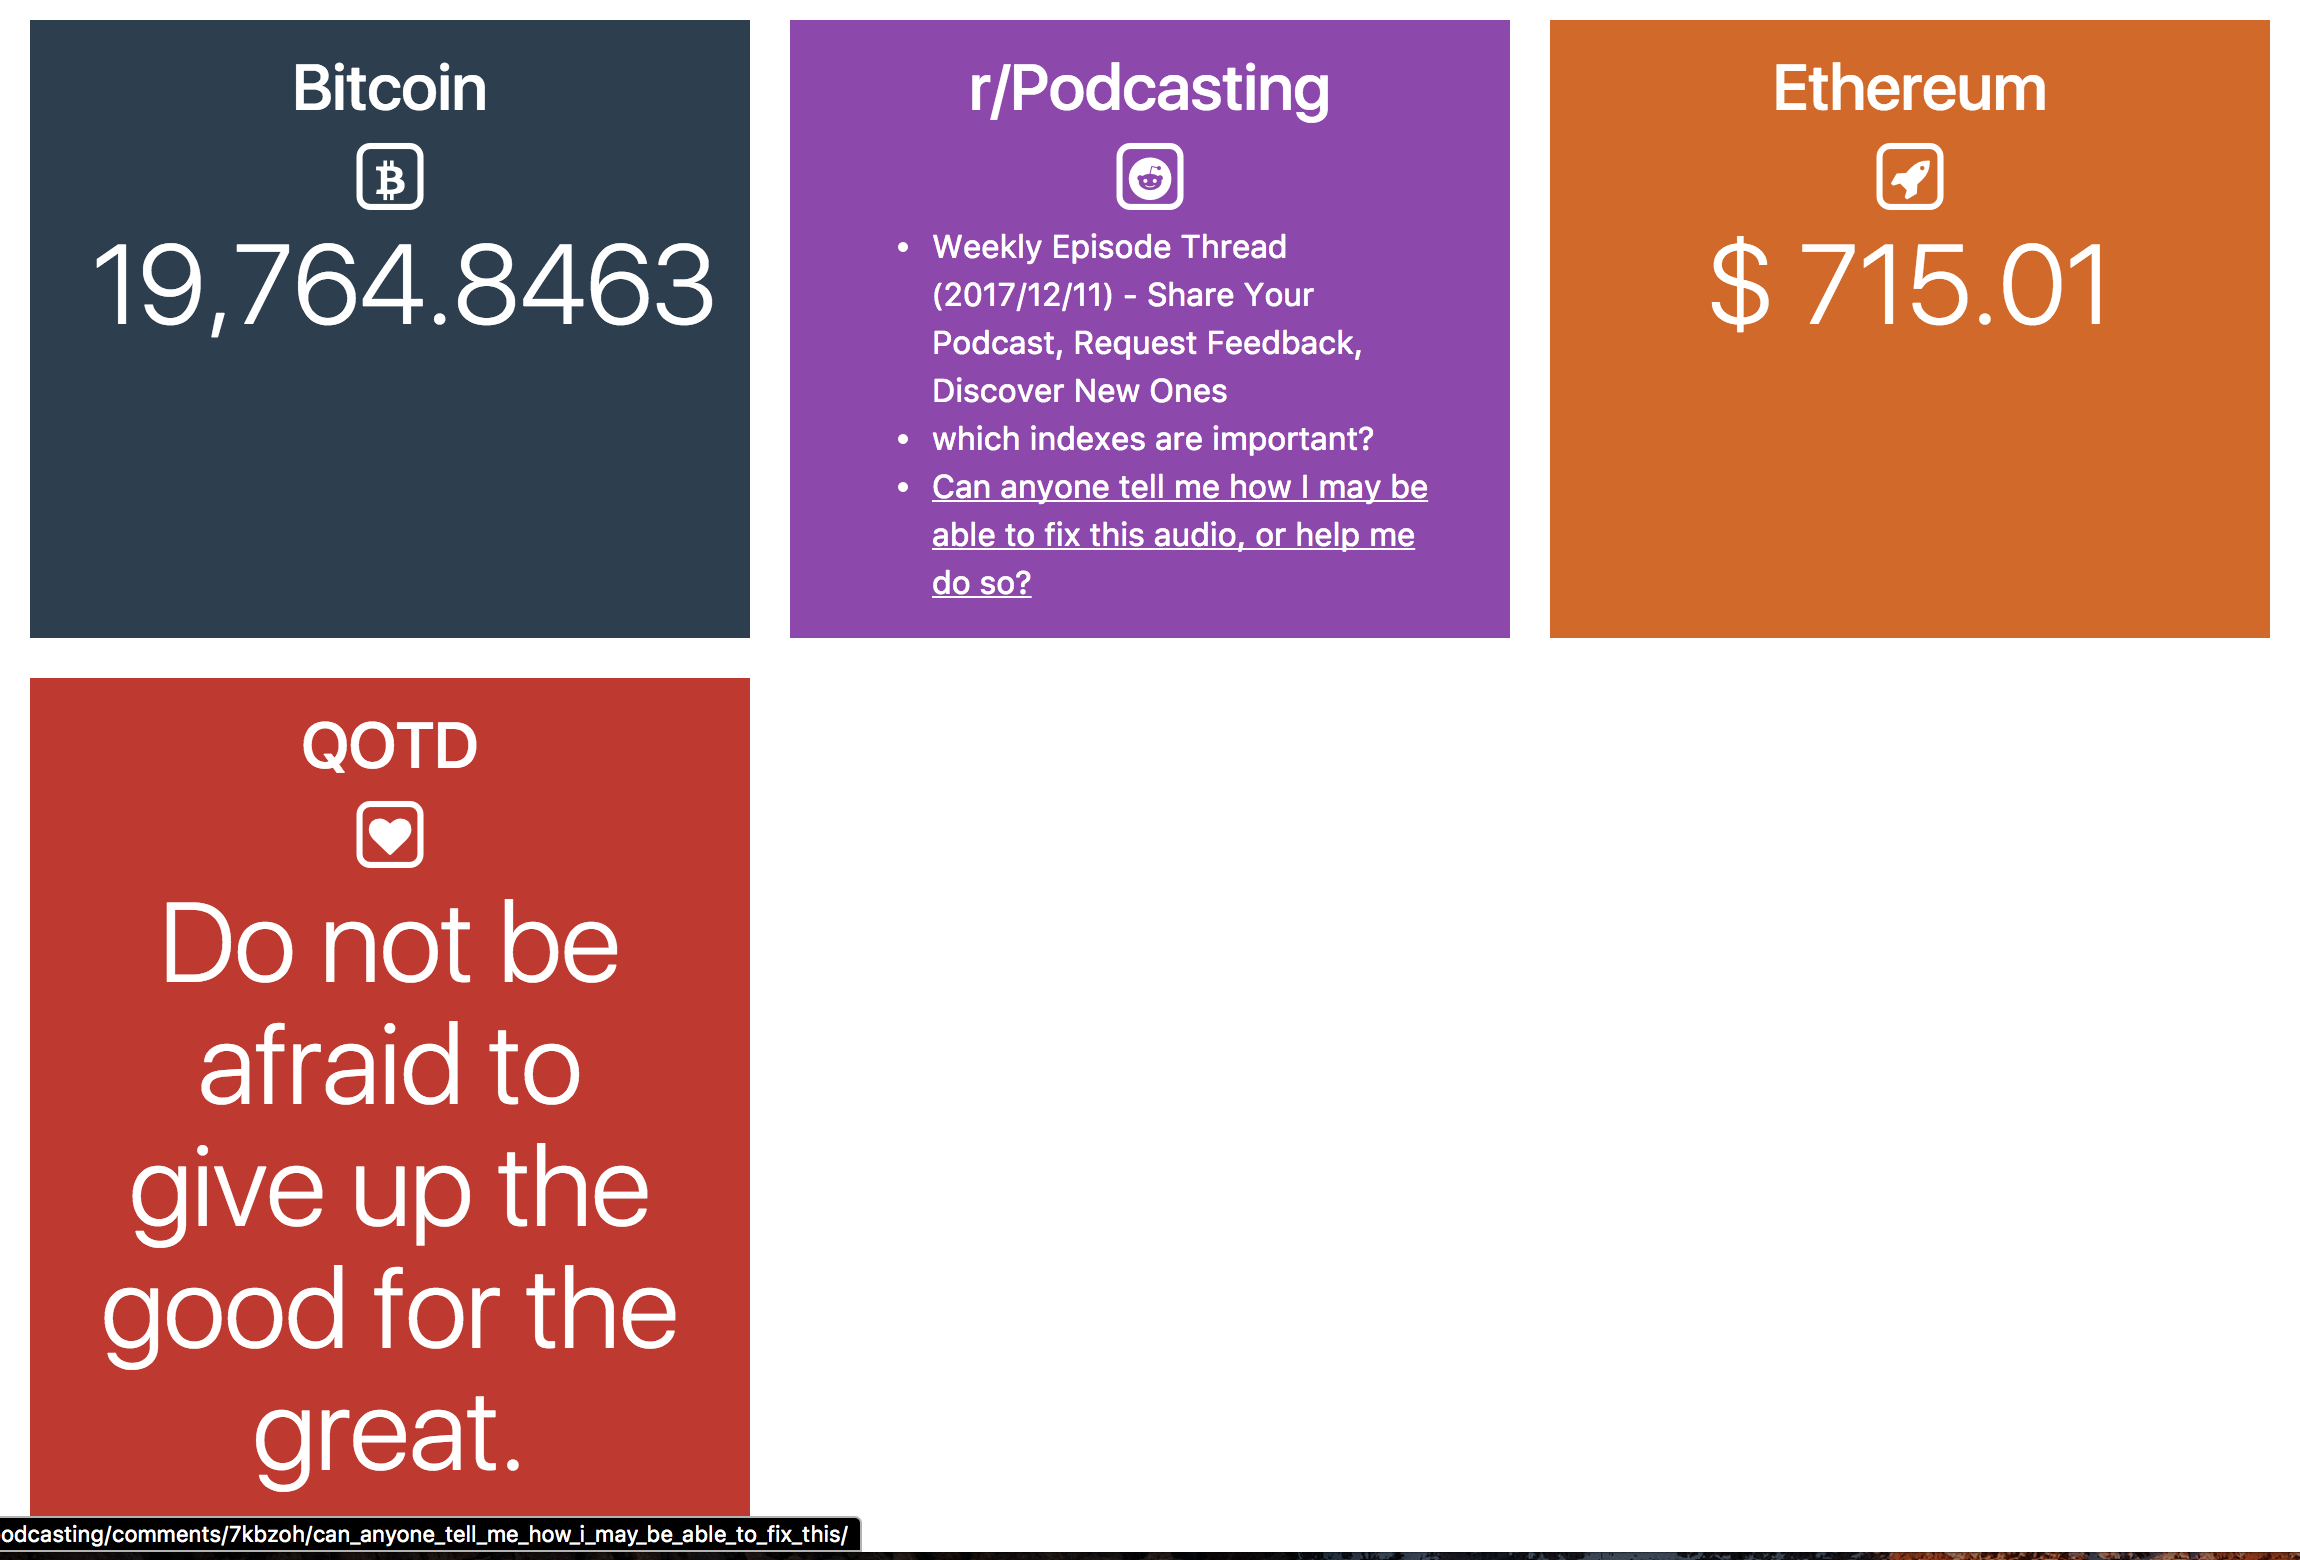
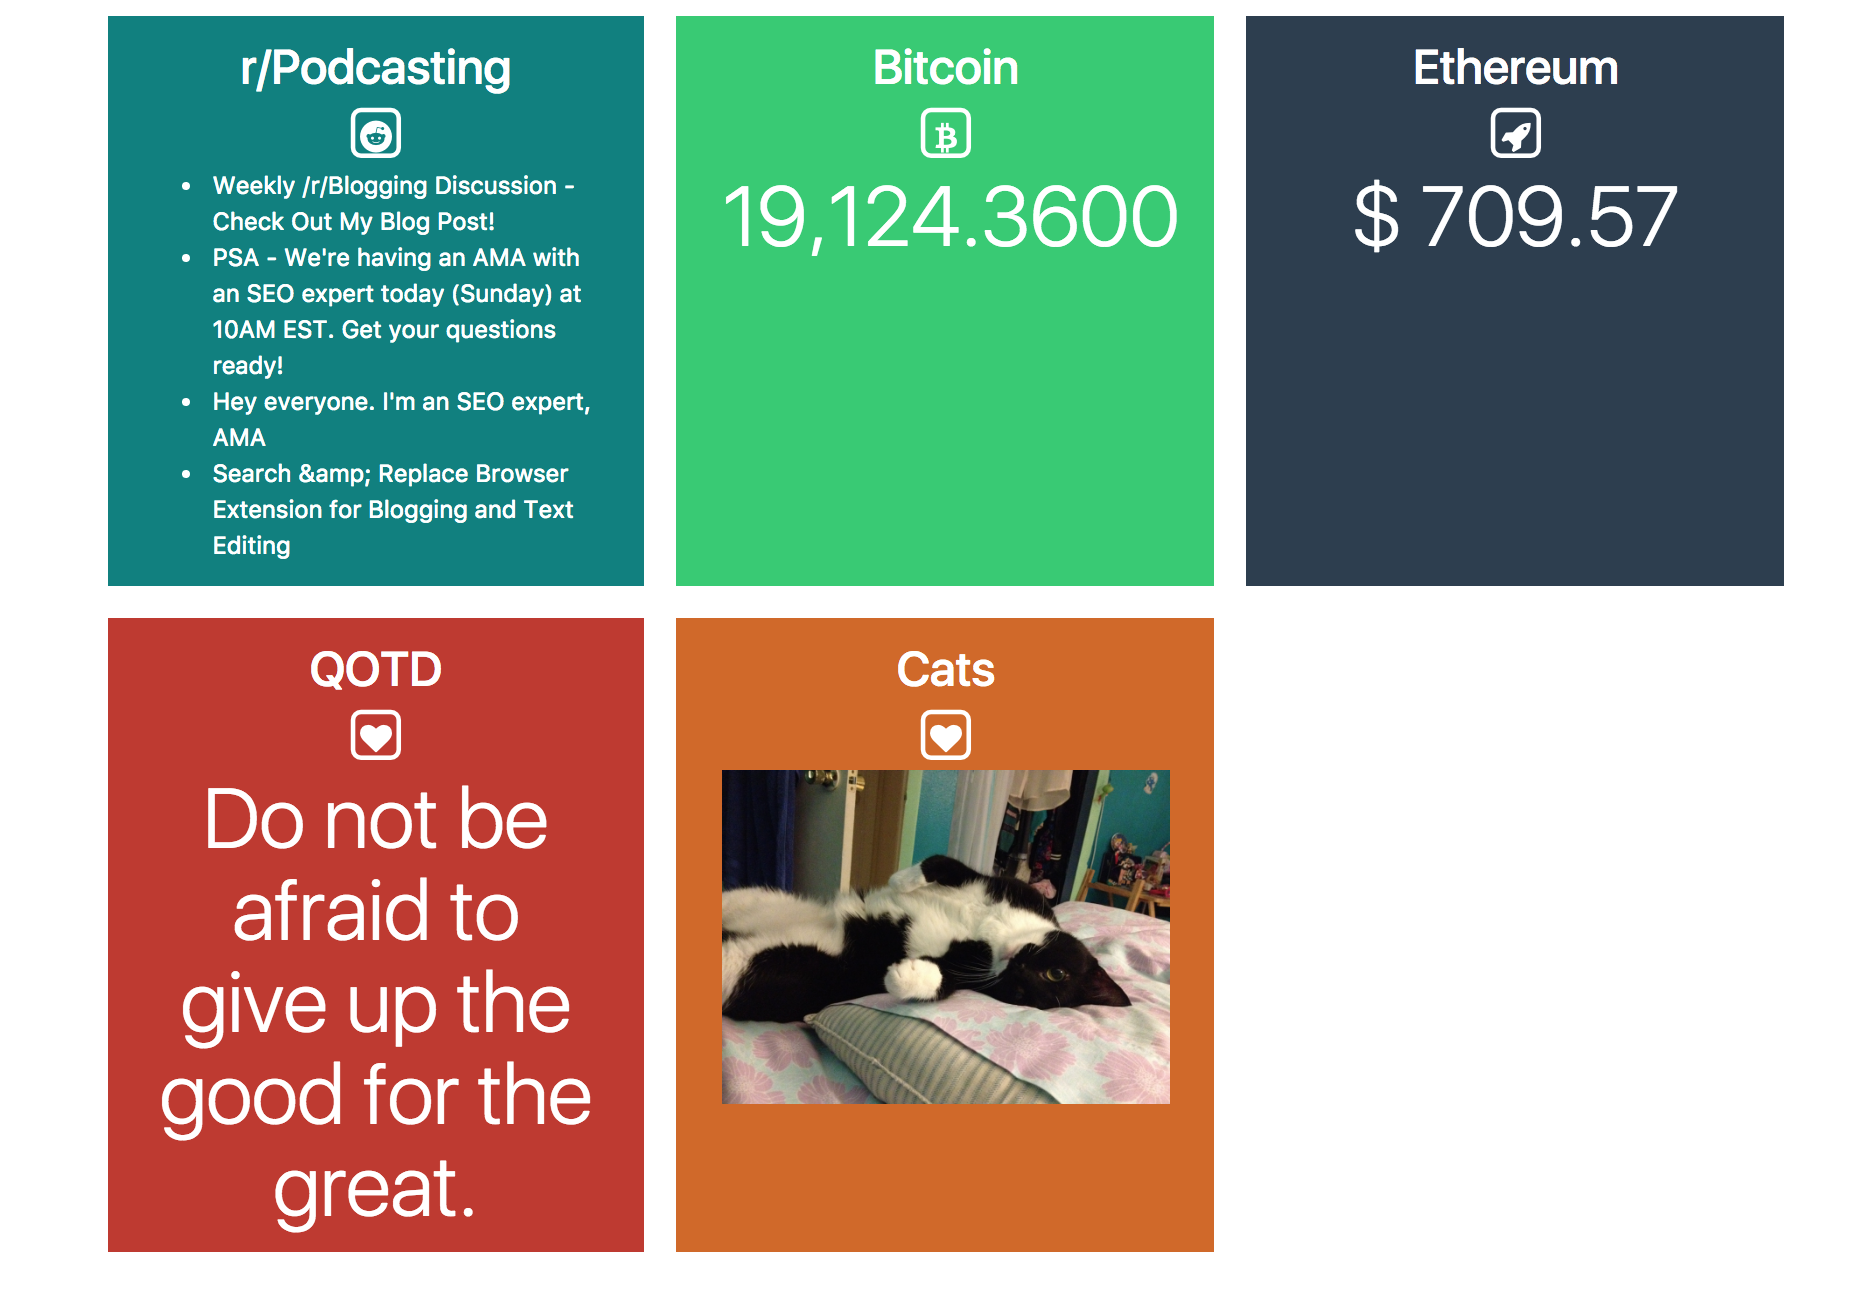
updated readme

diff --git a/src/App.js b/src/App.js
@@ -3,29 +3,31 @@ import './App.css';
 import axios from 'axios';
 import FontAwesome from 'react-fontawesome';
 import 'font-awesome/css/font-awesome.min.css';
-import { Navbar, Jumbotron, Button } from 'react-bootstrap';
 
 
 
 
-class List extends React.Component {
+class RedditList extends React.Component {
   constructor(props) {
     super(props);
-    this.state = { color: this.props.color };
-
+    this.state = { text: props.text };
   }
+
+
+
 
   render() {
     return(
     <ul>
-      {
-        this.props.data.slice(0,3).map(function(d) {
+      { this.props.text.length > 0 &&
+        this.props.text.slice(1,5).map(function(d) {
           return <li style={{color: 'white'}}> <a style={{color: 'white'}}  href={d.url}> {d.title} </a> </li>
         })
       }
     </ul>
     );
   }
+
 }
 
 
@@ -36,13 +38,12 @@ class Box extends React.Component {
     this.getRandomColor();
     this.setPrice = this.setPrice.bind(this);
     this.getPrice = this.getPrice.bind(this);
-
   }
 
   componentDidMount() {
     this.getPrice();
     this.getRandomColor();
-    this.interval = setInterval(this.getPrice, 5000);
+    this.interval = setInterval(this.getPrice, 3000);
   }
 
   componentWillUnmount() {
@@ -68,31 +69,34 @@ class Box extends React.Component {
 
   setPrice(data) {
     var Hello = this.props.parse(data);
-
-    if (typeof Hello == "string") {
+    if (this.props.type == "String") {
         this.setState({
-          text: Hello,
-          list: false
+          text: Hello
         });
     }
-    else if (Hello instanceof Array) {
-      var array = Hello.map(function(d) {
+    else if (this.props.type == "Image" && Hello != null) {
+      this.setState({
+        text: Hello
+      });
+
+    }
+    else if (this.props.type == "Array") {
+      const redditTitle = Hello.map(function(d) {
          return {title: d.data.title , url: d.data.url};
        });
        this.setState({
-         text: array,
-         list: true
+         text: redditTitle
        });
+
     }
-    else {
-    }
+
   }
 
 
 
   render() {
     return(
-      <div  class="col-4" style={{backgroundColor: this.state.color, border: '10px solid white'}}>
+      <div  className={"col-4"} style={{backgroundColor: this.state.color, border: '10px solid white'}}>
         <div style={{margin: '1em', color: this.state.textColor}}>
           <h2 style={{textAlign: 'center'}}> {this.props.title} </h2>
           <span className='fa-stack fa-lg' style={{display: 'table', margin:'0 auto'}}>
@@ -100,9 +104,10 @@ class Box extends React.Component {
             <FontAwesome name={this.props.iconName} stack='1x' />
           </span>
 
+          {this.props.type == "String" && <h1 className={"display-4"} style={{textAlign: 'center'}}> {(this.state.text)} </h1> }
+          {this.props.type == "Array"  && <RedditList text={this.state.text} /> }
+          {this.props.type == "Image"  && <img className={"img-fluid"} alt="image" src={this.state.text} /> }
 
-          {!this.state.list && <h1 class="display-4" style={{textAlign: 'center'}}>{(this.state.text)} </h1>}
-          {this.state.list && <List data={this.state.text} /> }
 
         </div>
       </div>
@@ -110,9 +115,13 @@ class Box extends React.Component {
   }
 }
 
+Box.defaultProps = {
+  type: "String"
+};
+
 const Bitcoin = (data) => {
     return data.bpi.USD.rate;
-}
+};
 
 const Ethereum = (data) => {
   return data.DISPLAY.ETH.USD.PRICE;
@@ -124,6 +133,11 @@ const RedditPodcasting = (json) => {
 
 const Qotd = (data) => {
   return data.contents.quotes[0].quote
+};
+
+const CatImage = (data) => {
+  const imageLink = data.match(/http:\/\/25.*png/g)
+  return imageLink;
 };
 
 
@@ -152,32 +166,45 @@ const Colors = [Orange, Black, Teal, Indigo, Chocolate, Pomegranite, Blue, Emera
 class App extends React.Component {
   render() {
     return(
-      <div class="container container-fluid">
-      <div class="row" >
-        <Box title="Bitcoin" iconName="bitcoin"
-          api="https://api.coindesk.com/v1/bpi/currentprice.json"
-          parse={Bitcoin}
-          colors={Colors} />
+      <div className={"container container-fluid"}>
+      <div className={"row"} >
 
-        <Box title="r/Podcasting" iconName="reddit"
-         api="https://www.reddit.com/r/podcasting.json"
+      <Box title="r/Podcasting" iconName="reddit"
+         api="https://www.reddit.com/r/Blogging.json"
          parse={RedditPodcasting}
-         colors={Colors} />
+         colors={Colors}
+         type="Array" />
+
+        <Box title="Bitcoin" iconName="bitcoin"
+            api="https://api.coindesk.com/v1/bpi/currentprice.json"
+            parse={Bitcoin}
+            colors={Colors} />
+
+
 
         <Box title="Ethereum" iconName="rocket"
-         api="https://min-api.cryptocompare.com/data/pricemultifull?fsyms=ETH&tsyms=USD"
-         parse={Ethereum}
-         colors={Colors} />
+           api="https://min-api.cryptocompare.com/data/pricemultifull?fsyms=ETH&tsyms=USD"
+           parse={Ethereum}
+           colors={Colors} />
 
       </div>
-      <div class="row row-eq-height" >
+      <div className={"row row-eq-height"} >
         <Box title="QOTD" iconName="heart"
-         api="http://quotes.rest/qod"
-         parse={Qotd}
-         colors={Colors} />
+           api="http://quotes.rest/qod"
+           parse={Qotd}
+           colors={Colors} />
 
+       <Box title="Cats" iconName="heart"
+          api="http://thecatapi.com/api/images/get?format=html&type=png"
+          parse={CatImage}
+          colors={Colors}
+          type="Image" />
 
       </div>
+
+
+
+
     </div>
     );
   }

diff --git a/README.md b/README.md
@@ -9,3 +9,4 @@ Feel free to fork and add your own components:
 * Currency
 * Subreddit Feed
 * Quote of the day
+* Cute Cat Photos
